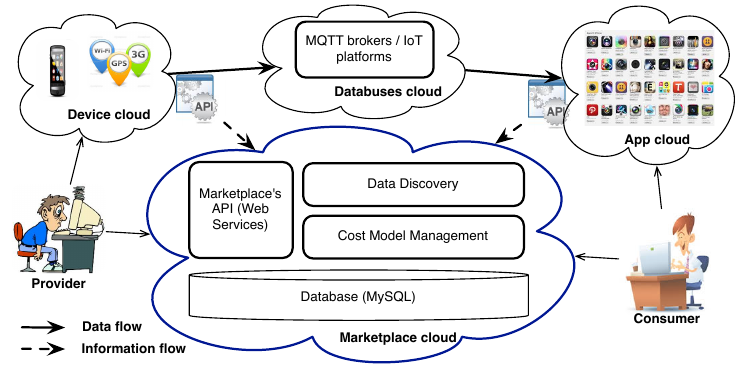
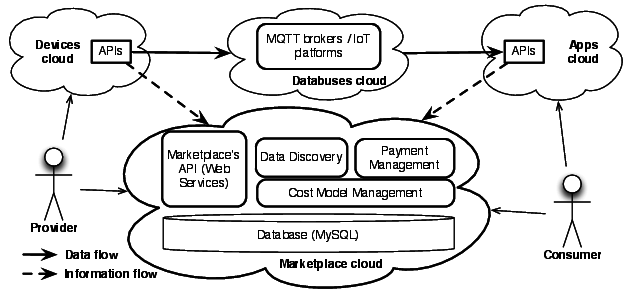
update new figures

Changed region(s): [[0.0, 0.0, 0.9952, 1.0], [0.754, 0.5204, 0.7841, 0.5816]]

diff --git a/index.html b/index.html
@@ -42,7 +42,7 @@ $ git checkout gh-pages
 
 <p>
 <figure>
- <img src="images/TraficScenario2.png" alt="Traffic Scenario">
+ <img src="images/MarketViewOfTrafficScenario.png" alt="Traffic Scenario">
  <figcaption>Trafic scenario</figcaption>
 </p>
 
@@ -60,13 +60,14 @@ $ git checkout gh-pages
 <p>In our general design of the marketplace for real-time IoT data,
 four stakeholders, which are data broker, payment controller, quality controller and manager, are mapped to the correspondent services of the marketplace, i.e., Service Discovery, Billing, Quality Analysis and Management which also manages the needed models for data contract such as pricing model, quality of data model, device description model, etc. We design Data Processor stakeholder as a set of services developed by marketplace owner or third parties. To enable the technology infrastructure for transferring data, a set of Real-Time Data Bus which plays the role of transporters is proposed as the services outside the marketplace. This allows us to profit the current IoT platforms (e.g., <a  href="https://xively.com/whats_xively">Xively</a>) or Data Distribution Service middlewares as the data buses. Moreover, this also increases the opportunity of providers and/or consumers to choose the familiar/trusted protocol for their exchange. However, this design raises a list of APIs which allows the data buses to interact with marketplace to update the data status to marketplace.</p>
 
+<!--
 <p>
 <figure>
  <img src="images/stakeholders.png" alt="Stakeholders">
  <figcaption>Stakeholders of the marketplace</figcaption>
 </figure>
 </p>
-
+-->
 
 
 <h3>
